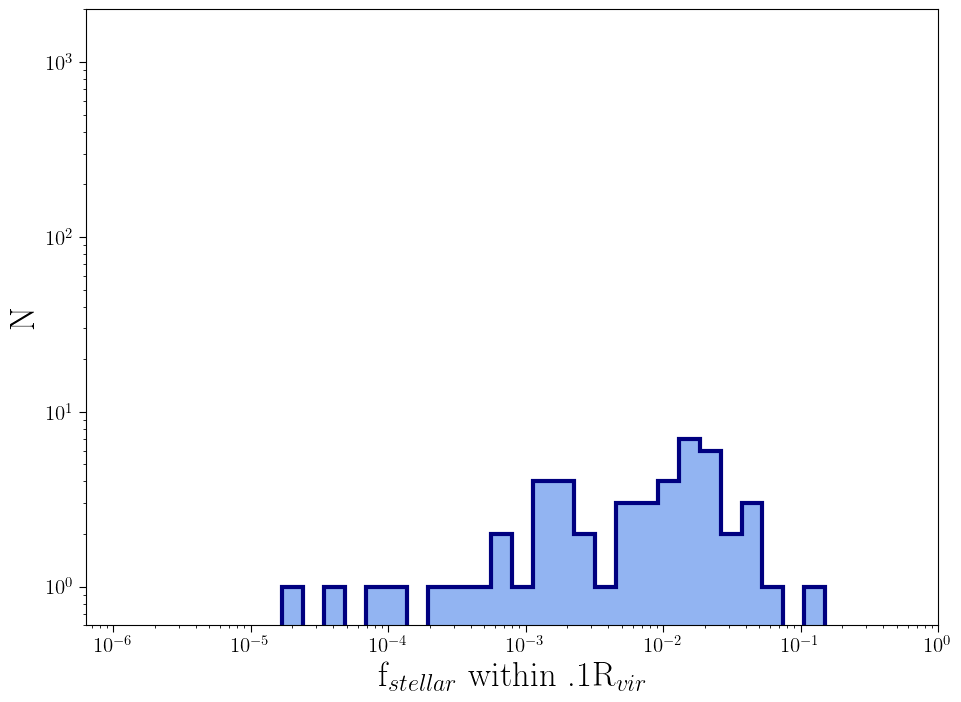
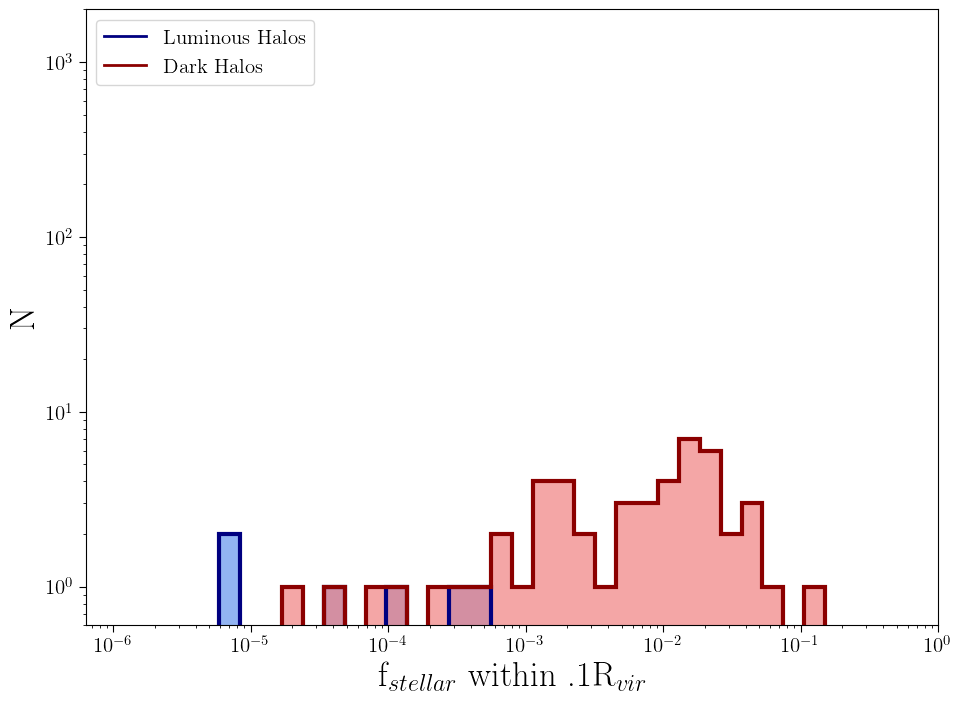
Added plots for DCJL data and reworked Plot.z0

diff --git a/Code/Plot.z0.py b/Code/Plot.z0.py
@@ -1,0 +1,136 @@
+import argparse,imageio,os,pickle,warnings
+import numpy as np
+import matplotlib.pylab as plt
+from osxmetadata import OSXMetaData
+warnings.filterwarnings("ignore")
+
+parser = argparse.ArgumentParser()
+parser.add_argument("-s","--simulation",choices=['Marvel','DCJL'],required=True)
+parser.add_argument("-r","--resolved",action="store_true")
+args = parser.parse_args()
+
+res_halos = {
+    'cptmarvel' :  [1,2,3,5,6,7,10,11,13,14,24],
+    'elektra' : [1,2,3,4,5,8,9,10,11,12,17,36,64],
+    'storm' : [1,2,3,4,5,6,7,8,10,11,12,14,15,22,23,31,37,44,48,55,118],
+    'rogue' : [1,3,7,8,10,11,12,15,16,17,28,31,37,58,116],
+    'h148' : [2,3,4,6,7,11,12,13,15,20,23,27,28,29,33,34,37,38,41,43,51,59,65,75,86,94,109,114,122],
+    'h229' : [2,3,6,14,15,18,20,22,25,33,47,48,49,52,57,62,89,92,127],
+    'h242' : [8,10,21,26,30,34,38,42,44,45,63,70,81,138],
+    'h329' : [7,29,30,37,53,92,115,117,127]
+}
+
+res = '.Resolved' if args.resolved else ''
+
+Data = pickle.load(open(f'../DataFiles/{args.simulation}.z0.pickle','rb'))
+Plots = {'dark':[],'luminous':[],'dark_Inner':[],'luminous_Inner':[],'dark_Center':[],'luminous_Center':[]}
+ObsPlots = {'dark':[],'luminous':[],'dark_Inner':[],'luminous_Inner':[],'dark_Center':[],'luminous_Center':[]}
+GasPlots = {'dark':[],'luminous':[],'dark_Inner':[],'luminous_Inner':[],'dark_Center':[],'luminous_Center':[]}
+StarPlots = {'dark':[],'luminous':[],'dark_Inner':[],'luminous_Inner':[],'dark_Center':[],'luminous_Center':[]}
+
+sims = ['cptmarvel','elektra','storm','rogue'] if args.simulation=='Marvel' else ['h148','h229','h242','h329']
+c1,c2 = [['','_Inner','_Center'],['','.1','.01']]
+for s in sims:
+    for h in Data[s]:
+        halo = Data[s][h]
+        if args.resolved:
+            lum = True if int(h) in res_halos[s] else False
+        else:
+            lum = True if halo['Mstar']>0 else False
+        for t in [0,1,2]:
+            if lum:
+                Plots['dark'+c1[t]].append(float((halo[c2[t]+'Mstar']+halo[c2[t]+'Mgas'])/halo[c2[t]+'Mvir']))
+                ObsPlots['dark'+c1[t]].append(float((.6*halo[c2[t]+'Mstar']+1.33*halo[c2[t]+'MHI'])/halo[c2[t]+'Mvir']))
+                GasPlots['dark'+c1[t]].append(float((1.4*(halo[c2[t]+'MHI']+halo[c2[t]+'MHII']))/halo[c2[t]+'Mvir']))
+                StarPlots['dark'+c1[t]].append(float(halo[c2[t]+'Mstar']/halo[c2[t]+'Mvir']))
+            else:
+                Plots['luminous'+c1[t]].append(float((halo[c2[t]+'Mstar']+halo[c2[t]+'Mgas'])/halo[c2[t]+'Mvir']))
+                ObsPlots['luminous'+c1[t]].append(float((.6*halo[c2[t]+'Mstar']+1.33*halo[c2[t]+'MHI'])/halo[c2[t]+'Mvir']))
+                GasPlots['luminous'+c1[t]].append(float((1.4*(halo[c2[t]+'MHI']+halo[c2[t]+'MHII']))/halo[c2[t]+'Mvir']))
+                StarPlots['luminous'+c1[t]].append(float(halo[c2[t]+'Mstar']/halo[c2[t]+'Mvir']))
+
+titles = ['Entire','Inner','Center']
+for t in [0,1,2]:
+    f,ax = plt.subplots(1,1,figsize=(11,8))
+    ax.set_ylabel('N',fontsize=25)
+    ax.set_xlabel(r'f$_{b}$ within '+c2[t]+r'R$_{vir}$',fontsize=25)
+    ax.tick_params(length=5,labelsize=15)
+    ax.set_xlim([1e-7,1])
+    ax.semilogx()
+    ax.set_ylim([6e-1,2e3])
+    ax.semilogy()
+    bins = np.logspace(-7,1,50) 
+    ax.plot(0,0,color='navy',linewidth=2,label='Luminous Halos')
+    ax.plot(0,0,color='darkred',linewidth=2,label='Dark Halos')
+    ax.hist(Plots['luminous'+c1[t]],bins,histtype='step',color='navy',linewidth=3)
+    ax.hist(Plots['luminous'+c1[t]],bins,color='cornflowerblue',alpha=.7)
+    ax.hist(Plots['dark'+c1[t]],bins,histtype='step',color='darkred',linewidth=3)
+    ax.hist(Plots['dark'+c1[t]],bins,color='lightcoral',alpha=.7)
+    ax.legend(loc='upper left',prop={'size':15})
+    f.savefig(f'../Plots/{args.simulation}z0{res}.{titles[t]}.png',bbox_inches='tight',pad_inches=.1)
+    meta = OSXMetaData(f'../Plots/{args.simulation}z0{res}.{titles[t]}.png')
+    meta.creator='Plot.z0.py'
+    plt.close()
+
+    f,ax = plt.subplots(1,1,figsize=(11,8))
+    ax.set_ylabel('N',fontsize=25)
+    ax.set_xlabel(r'Observed f$_{b}$ within '+c2[t]+r'R$_{vir}$',fontsize=25)
+    ax.tick_params(length=5,labelsize=15)
+    ax.set_xlim([1e-11,1])
+    ax.semilogx()
+    ax.set_ylim([6e-1,2e3])
+    ax.semilogy()
+    bins = np.logspace(-11,1,80)
+    ax.plot(0,0,color='navy',linewidth=2,label='Luminous Halos')
+    ax.plot(0,0,color='darkred',linewidth=2,label='Dark Halos')
+    ax.hist(ObsPlots['luminous'+c1[t]],bins,histtype='step',color='navy',linewidth=3)
+    ax.hist(ObsPlots['luminous'+c1[t]],bins,color='cornflowerblue',alpha=.7)
+    ax.hist(ObsPlots['dark'+c1[t]],bins,histtype='step',color='darkred',linewidth=3)
+    ax.hist(ObsPlots['dark'+c1[t]],bins,color='lightcoral',alpha=.7)
+    ax.legend(loc='upper left',prop={'size':15})
+    f.savefig(f'../Plots/{args.simulation}z0{res}.{titles[t]}.Observed.png',bbox_inches='tight',pad_inches=.1)
+    meta = OSXMetaData(f'../Plots/{args.simulation}z0{res}.{titles[t]}.Observed.png')
+    meta.creator='Plot.z0.py'
+    plt.close()
+
+    f,ax = plt.subplots(1,1,figsize=(11,8))
+    ax.set_ylabel('N',fontsize=25)
+    ax.set_xlabel(r'f$_{gas}$ within '+c2[t]+r'R$_{vir}$',fontsize=25)
+    ax.tick_params(length=5,labelsize=15)
+    ax.set_xlim([1e-6,1])
+    ax.semilogx()
+    ax.set_ylim([6e-1,2e3])
+    ax.semilogy()
+    bins = np.logspace(-11,1,80)
+    ax.plot(0,0,color='navy',linewidth=2,label='Luminous Halos')
+    ax.plot(0,0,color='darkred',linewidth=2,label='Dark Halos')
+    ax.hist(GasPlots['luminous'+c1[t]],bins,histtype='step',color='navy',linewidth=3)
+    ax.hist(GasPlots['luminous'+c1[t]],bins,color='cornflowerblue',alpha=.7)
+    ax.hist(GasPlots['dark'+c1[t]],bins,histtype='step',color='darkred',linewidth=3)
+    ax.hist(GasPlots['dark'+c1[t]],bins,color='lightcoral',alpha=.7)
+    ax.legend(loc='upper left',prop={'size':15})
+    f.savefig(f'../Plots/{args.simulation}z0{res}.{titles[t]}.Gas.png',bbox_inches='tight',pad_inches=.1)
+    meta = OSXMetaData(f'../Plots/{args.simulation}z0{res}.{titles[t]}.Gas.png')
+    meta.creator='Plot.z0.py'
+    plt.close()
+
+    f,ax = plt.subplots(1,1,figsize=(11,8))
+    ax.set_ylabel('N',fontsize=25)
+    ax.set_xlabel(r'f$_{stellar}$ within '+c2[t]+r'R$_{vir}$',fontsize=25)
+    ax.tick_params(length=5,labelsize=15)
+    ax.set_xlim([10**(-6.2),1])
+    ax.semilogx()
+    ax.set_ylim([6e-1,2e3])
+    ax.semilogy()
+    bins = np.logspace(-11,1,80)
+    ax.plot(0,0,color='navy',linewidth=2,label='Luminous Halos')
+    ax.plot(0,0,color='darkred',linewidth=2,label='Dark Halos')
+    ax.hist(StarPlots['luminous'+c1[t]],bins,histtype='step',color='navy',linewidth=3)
+    ax.hist(StarPlots['luminous'+c1[t]],bins,color='cornflowerblue',alpha=.7)
+    ax.hist(StarPlots['dark'+c1[t]],bins,histtype='step',color='darkred',linewidth=3)
+    ax.hist(StarPlots['dark'+c1[t]],bins,color='lightcoral',alpha=.7)
+    ax.legend(loc='upper left',prop={'size':15})
+    f.savefig(f'../Plots/{args.simulation}z0{res}.{titles[t]}.Stellar.png',bbox_inches='tight',pad_inches=.1)
+    meta = OSXMetaData(f'../Plots/{args.simulation}z0{res}.{titles[t]}.Stellar.png')
+    meta.creator='Plot.z0.py'
+    plt.close()
